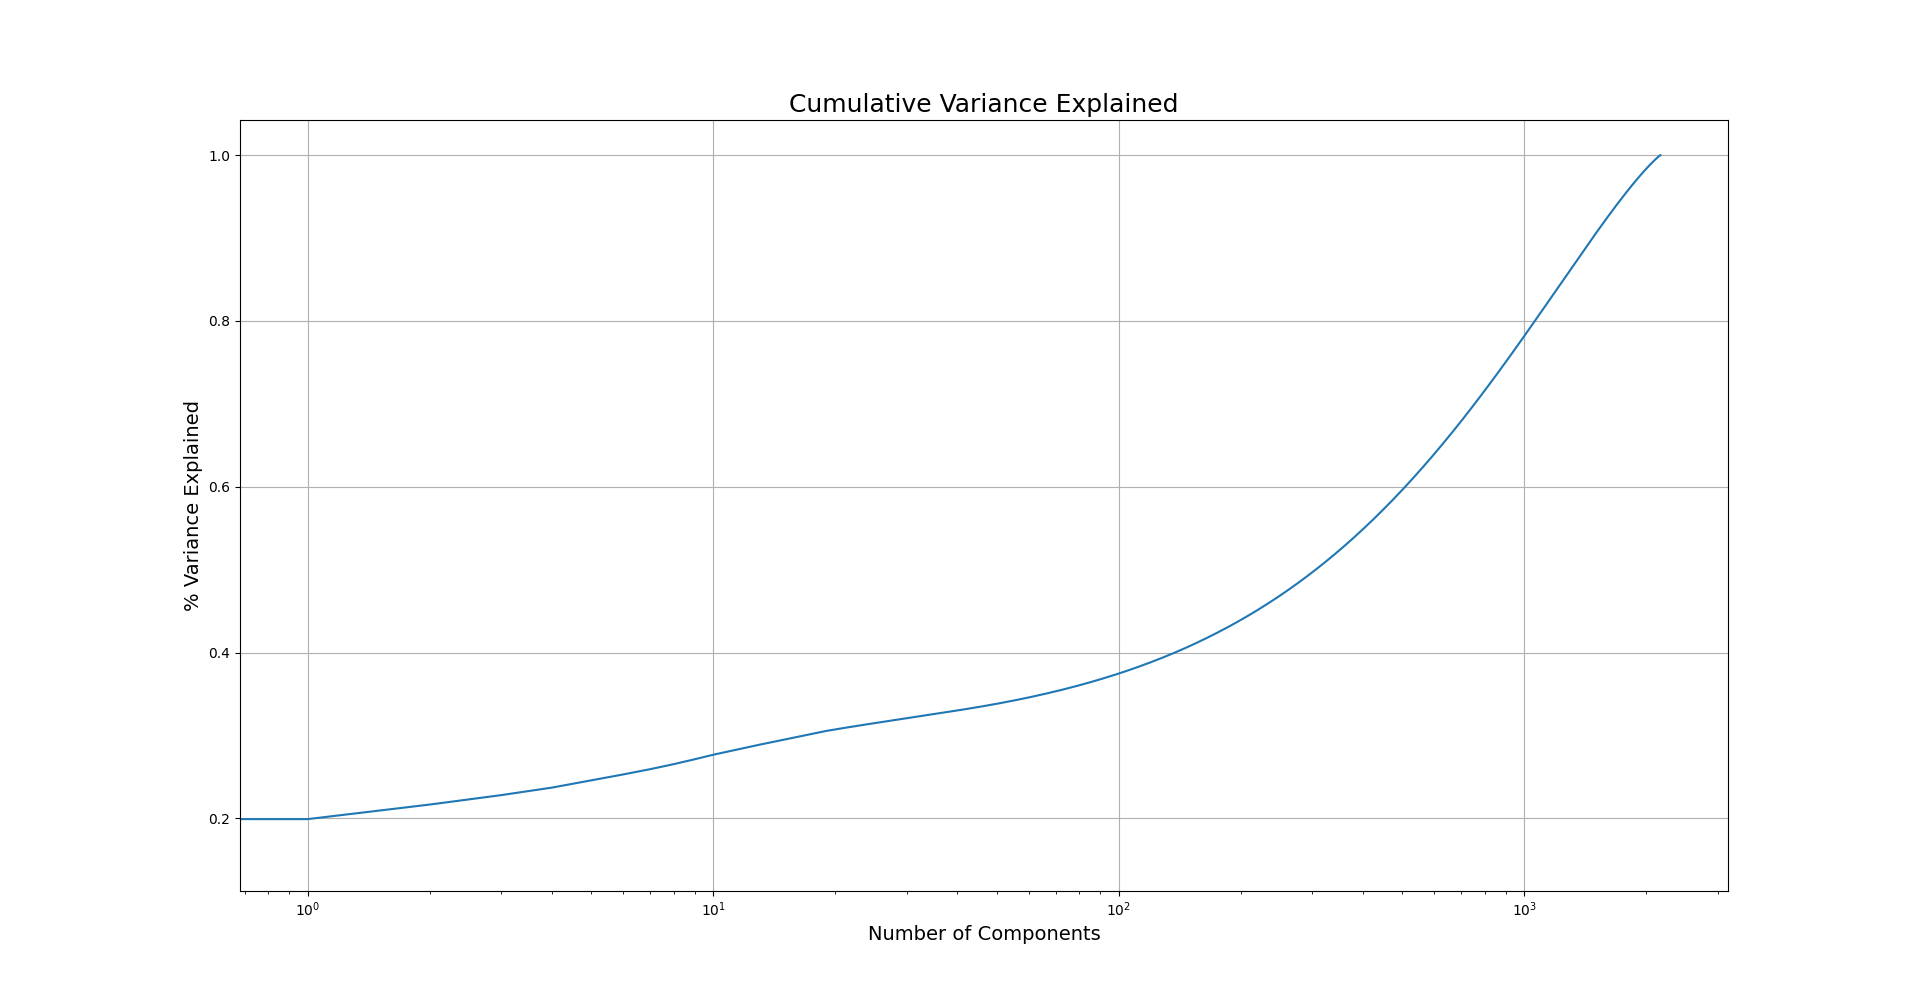
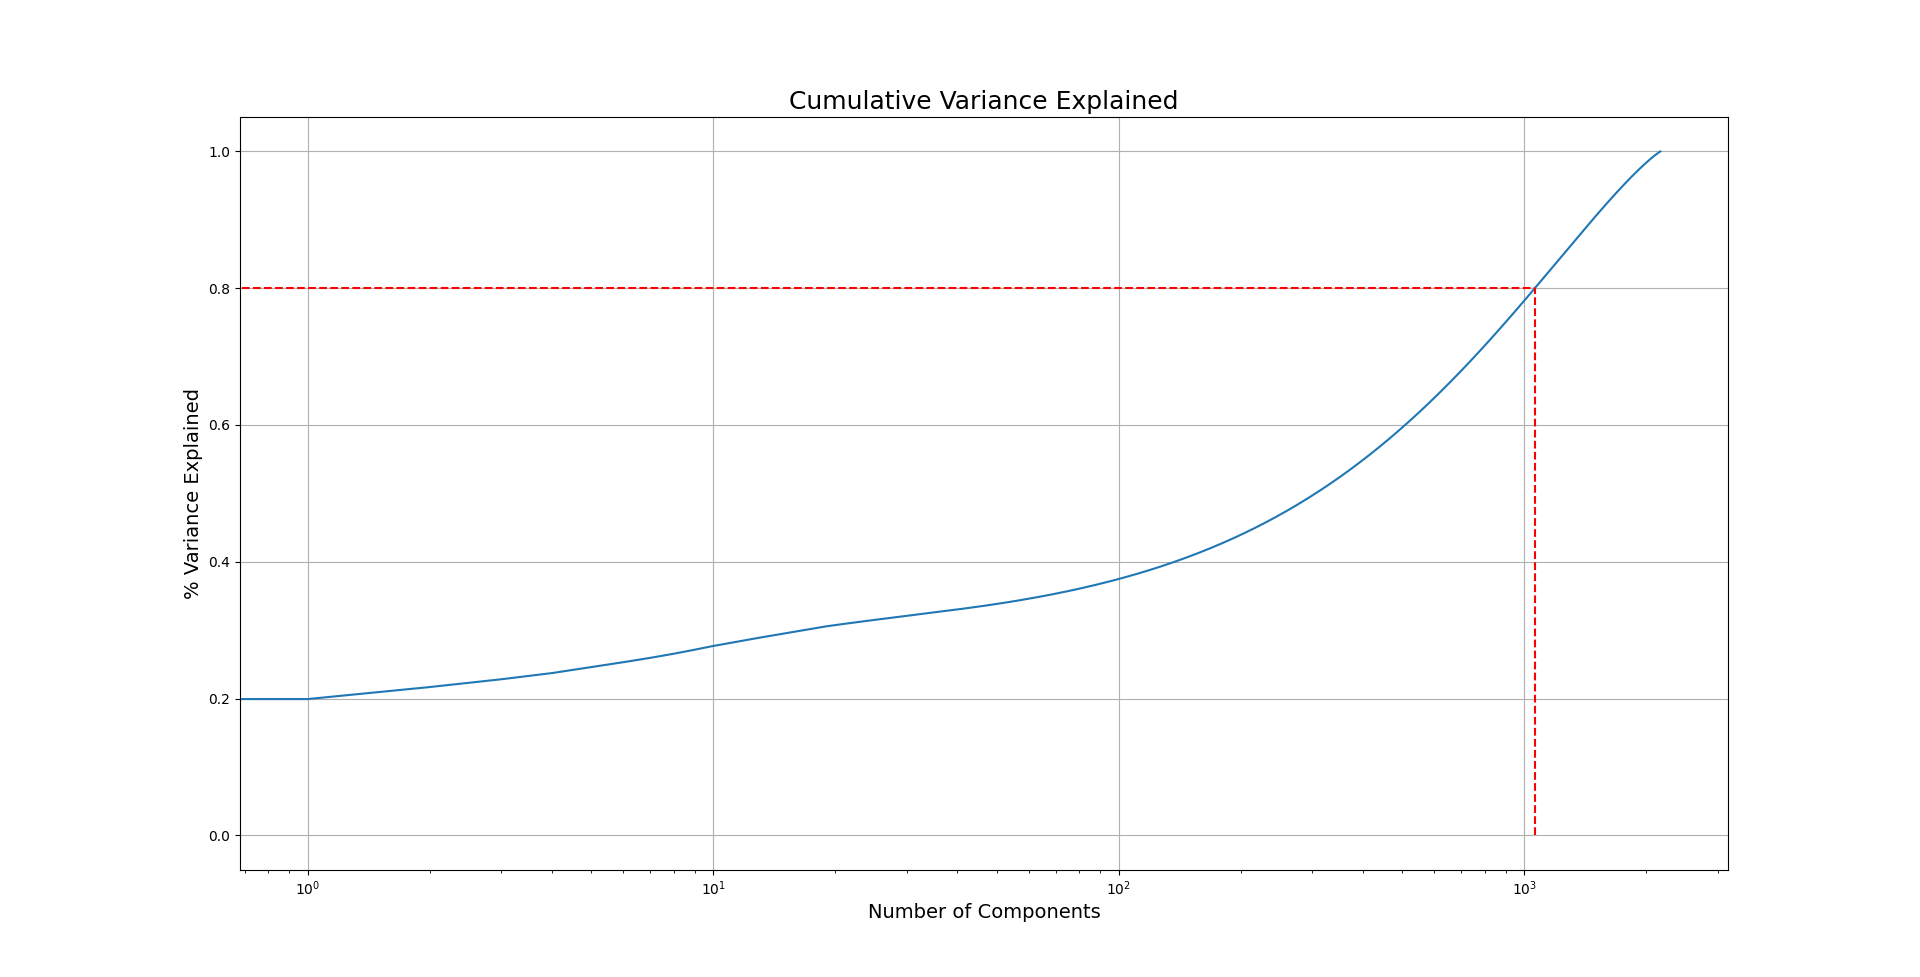
update Code_M2_HO-5_P2.py

diff --git a/Code_M2_HO-5_P2.py b/Code_M2_HO-5_P2.py
@@ -1,8 +1,14 @@
 import numpy as np
 import matplotlib.pyplot as plt
+import xarray as xr
+import seaborn as sns
+import pandas as pd
+from myLibrary import find_nearest_value, find_nearest_index
 from sklearn.decomposition import PCA
 from sklearn.manifold import TSNE
 from sklearn.cluster import KMeans
+from tqdm import trange
+
 
 
 # data load
@@ -14,11 +20,18 @@ X = np.log2(X + 1)
 
 # PCA
 p_components = 1000
-n_cluster = 12
+n_cluster = 15
 pca = PCA(p_components)  # log-transformed data projected on 50 PC's
 Z = pca.fit_transform(X)
-kmeans = KMeans(n_clusters=n_cluster, n_init=100)
-colors = kmeans.fit_predict(Z)
+#
+kmeans_type = KMeans(n_clusters=3, n_init=100)
+colors_type = kmeans_type.fit_predict(Z)
+#
+kmeans_subtype = KMeans(n_clusters=n_cluster, n_init=100)
+colors_subtype = kmeans_subtype.fit_predict(Z)
+#
+# labels = np.array_str(np.unique(colors))
+# labels = np.unique(colors)
 # plt.scatter(Z[:, 0], Z[:, 1])  #, c=colors)
 # plt.show()
 
@@ -27,28 +40,60 @@ colors = kmeans.fit_predict(Z)
 perplexity = 40
 tsne = TSNE(n_components=2, verbose=1, perplexity=perplexity)
 z_tsne = tsne.fit_transform(Z)
-plt.scatter(z_tsne[:, 0], z_tsne[:, 1], c=colors)
+# plt.scatter(z_tsne[:, 0], z_tsne[:, 1], c=colors)
+#
+# for type in np.unique(colors_type):
+#     for subtype in np.unique(colors_subtype):
+#
+#         # plt.scatter(z_tsne[colors_subtype == subtype, 0],
+#         #             z_tsne[colors_subtype == subtype, 1],
+#         #             label=f'Type: {type}, Subtype: {subtype}')
+#
+#         expr1 = colors_type == type
+#         expr2 = colors_subtype == subtype
+#         element_wise_comparison = expr1 == expr2
+#         plt.scatter(z_tsne[element_wise_comparison, 0],
+#                     z_tsne[element_wise_comparison, 1],
+#                     label=f'Type: {type}, Subtype: {subtype}')
+#
+for label in np.unique(colors_subtype):
+    plt.scatter(z_tsne[colors_subtype == label, 0], z_tsne[colors_subtype == label, 1], label=f'Subtype {label}')
+for i, label in enumerate(colors_type):
+    plt.annotate(str(label), (z_tsne[i, 0], z_tsne[i, 1]), fontsize=7)
+#
 plt.title(f"PCA using PC {p_components} ==> TSNE using perplexity {perplexity} | n_cluster = {n_cluster}")
 plt.axis("equal")
+plt.legend()
 plt.show()
 
 
 # # cumulative variance plot
-# plt.plot(np.arange(0, 2169), np.cumsum(pca.explained_variance_ratio_))
+# pca = PCA()
+# Z = pca.fit_transform(X)
+# S = np.cumsum(pca.explained_variance_ratio_)
+# plt.plot(S)
 # plt.title("Cumulative Variance Explained", size=18)
 # plt.xlabel("Number of Components", size=14)
 # plt.ylabel("% Variance Explained", size=14)
 # plt.xscale("log")
+# S_index = find_nearest_index(S, 0.80)
+# S_value = find_nearest_value(S, 0.80)
+# plt.plot([S_index, S_index], [0, S_value], 'r--')
+# plt.plot([0, S_index], [S_value, S_value], 'r--')
 # plt.grid()
 # plt.show()
 
 
-# # elbow plot using intertia (option 1)
-# n = 20
-# plt.plot(np.arange(1, n), [KMeans(i, n_init=50).fit(X).inertia_ for i in range(1, n)])
+# # elbow plot using intertia (very slow)
+# n = 15  # total number of clusters analyzed
+# WGSS = [KMeans(i, n_init=20).fit(X).inertia_ for i in trange(1, n)]
+# plt.plot(WGSS)
 # plt.title("KMeans Sum of Squares Criterion", size=18)
 # plt.xlabel("# Clusters", size=14)
 # plt.ylabel("Within-Cluster Sum of Squares", size=14)
 # plt.xticks(np.arange(1, n, step=1))
+# c = 3  # selected cluster
+# plt.plot([c, c], [np.min(WGSS), WGSS[c]], 'r--')
+# plt.plot([0, c], [WGSS[c], WGSS[c]], 'r--')
 # plt.grid()
 # plt.show()

diff --git a/myLibrary.py b/myLibrary.py
@@ -3,6 +3,18 @@ from scipy.special import comb, factorial
 from scipy.stats import expon
 
 
+def find_nearest_value(array, value):
+    array = np.asarray(array)
+    idx = (np.abs(array - value)).argmin()
+    return array[idx]
+
+
+def find_nearest_index(array, value):
+    array = np.asarray(array)
+    idx = (np.abs(array - value)).argmin()
+    return idx
+
+
 def calculate_binomial_probability(n, k, p):
     return comb(n, k) * (p ** k) * (1 - p) ** (n - k)
 
